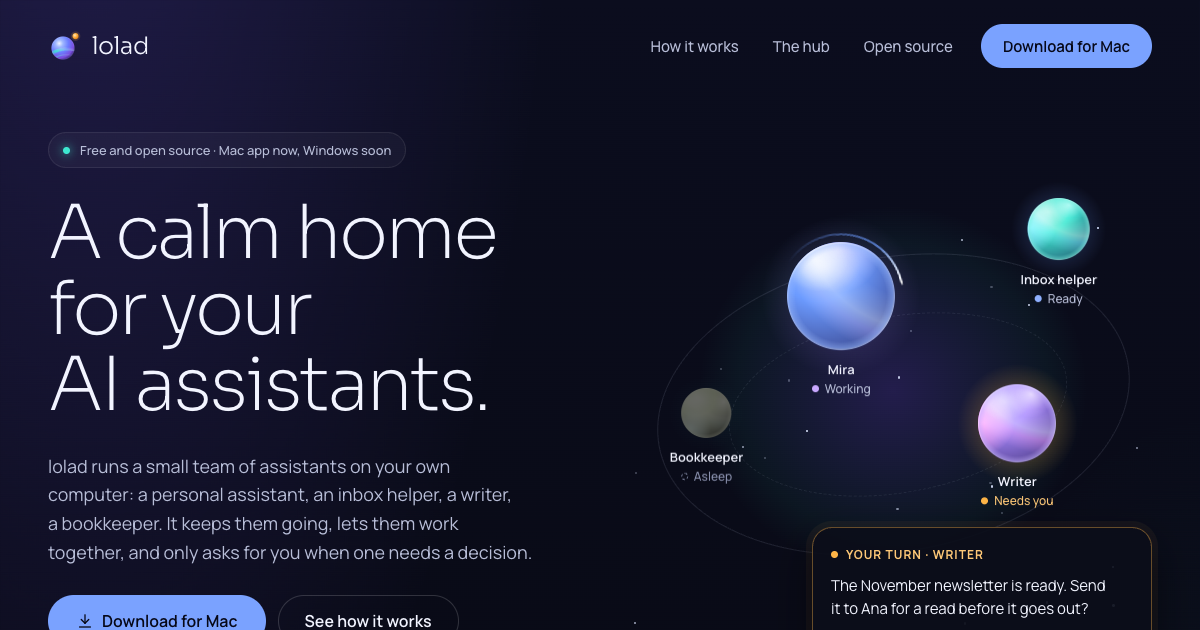
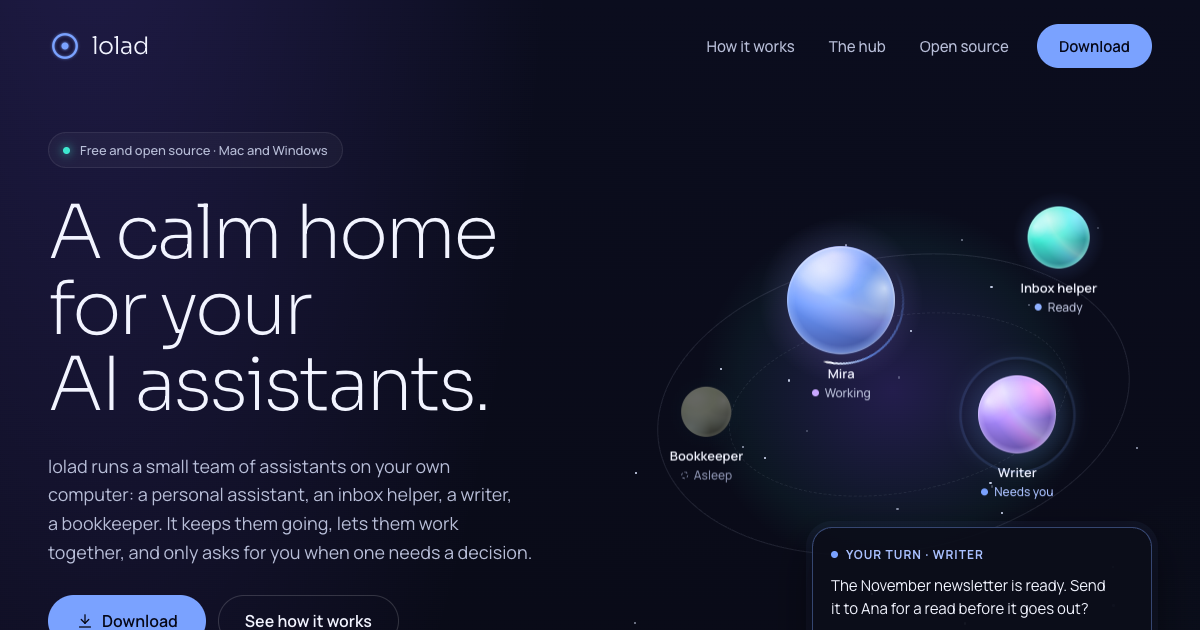
web+site: 'Runs on' in plain words, Restart sign-in link, site periwinkle 'your turn' and new og.png

diff --git a/site/styles.css b/site/styles.css
@@ -6,7 +6,7 @@
 :root {
   color-scheme: dark;
   --ion: #6C9BFF; --lilac: #A98BFF; --plasma: #FF6BD6; --aqua: #3DE8D0;
-  --volt: #C4F25A; --frost: #DCE6FF; --you: #FFB547; --fail: #FF5C7A;
+  --volt: #C4F25A; --frost: #DCE6FF; --you: #7AA2FF; --fail: #FF5C7A;
   --ink: #F2F4FF; --ink-2: #B8BED8; --ink-3: #8A91AE;
   --line: rgba(255,255,255,0.08);
   --surface: rgba(255,255,255,0.035);
@@ -102,11 +102,11 @@ a.btn.ghost:hover { color: var(--ink); background: rgba(255,255,255,0.06); }
 .turn-card {
   position: absolute; left: 30%; right: 0; bottom: -7%; max-width: 340px; margin-left: auto;
   padding: 18px; border-radius: 20px; background: rgba(11,13,25,0.92);
-  border: 1px solid rgba(255,181,71,0.38);
-  box-shadow: 0 16px 40px rgba(0,0,0,0.5), 0 0 0 6px rgba(255,181,71,0.05);
+  border: 1px solid rgba(122,162,255,0.38);
+  box-shadow: 0 16px 40px rgba(0,0,0,0.5), 0 0 0 6px rgba(122,162,255,0.05);
   display: flex; flex-direction: column; gap: 12px;
 }
-.turn-card .tag { display: inline-flex; align-items: center; gap: 8px; font-size: 12px; font-weight: 700; letter-spacing: 0.08em; text-transform: uppercase; color: #FFC877; }
+.turn-card .tag { display: inline-flex; align-items: center; gap: 8px; font-size: 12px; font-weight: 700; letter-spacing: 0.08em; text-transform: uppercase; color: #A9C0FF; }
 .turn-card p { font-size: 15px; line-height: 1.5; color: var(--ink); }
 .btn-row { display: flex; flex-wrap: wrap; gap: 8px; }
 
@@ -114,7 +114,7 @@ a.btn.ghost:hover { color: var(--ink); background: rgba(255,255,255,0.06); }
 .section { display: flex; flex-direction: column; gap: 40px; padding-block: 72px; }
 .cards { display: grid; grid-template-columns: repeat(auto-fit, minmax(min(100%, 300px), 1fr)); gap: 20px; }
 .card { background: var(--surface); border: 1px solid var(--line); border-radius: 22px; padding: 28px; display: flex; flex-direction: column; gap: 18px; min-width: 0; }
-.card.you  { border-color: rgba(255,181,71,0.38); background: linear-gradient(180deg, rgba(255,181,71,0.07), rgba(255,255,255,0.02)); }
+.card.you  { border-color: rgba(122,162,255,0.38); background: linear-gradient(180deg, rgba(122,162,255,0.07), rgba(255,255,255,0.02)); }
 .card.fail { border-color: rgba(255,92,122,0.30); background: linear-gradient(180deg, rgba(255,92,122,0.07), rgba(255,255,255,0.02)); }
 .card-head { display: flex; align-items: center; gap: 16px; }
 .status { display: inline-flex; align-items: center; gap: 8px; font-size: 13px; font-weight: 600; }
@@ -202,8 +202,8 @@ a.btn.ghost:hover { color: var(--ink); background: rgba(255,255,255,0.06); }
 .orb::after { content: ""; position: absolute; pointer-events: none; border-radius: 50%; }
 .orb.st-busy { --spd: 2.8; }
 .orb.st-busy::after { inset: -9%; background: conic-gradient(from 0deg, transparent 0 62%, color-mix(in srgb, var(--h) 70%, transparent) 88%, #fff 99%, transparent 100%); -webkit-mask: radial-gradient(closest-side, transparent calc(100% - 2.5px), #000 calc(100% - 2px)); mask: radial-gradient(closest-side, transparent calc(100% - 2.5px), #000 calc(100% - 2px)); animation: orb-spin 1.8s linear infinite; }
-.orb.st-waiting::before { background: radial-gradient(closest-side, color-mix(in srgb, var(--h) 36%, transparent) 0, rgba(255,181,71,.22) 55%, transparent 100%); }
-.orb.st-waiting::after { inset: -7%; border: 2px solid var(--you); box-shadow: 0 0 12px rgba(255,181,71,.55); animation: orb-ripple 2.4s cubic-bezier(.2,.6,.3,1) infinite; }
+.orb.st-waiting::before { background: radial-gradient(closest-side, color-mix(in srgb, var(--h) 36%, transparent) 0, rgba(122,162,255,.22) 55%, transparent 100%); }
+.orb.st-waiting::after { inset: -7%; border: 2px solid var(--you); box-shadow: 0 0 12px rgba(122,162,255,.55); animation: orb-ripple 2.4s cubic-bezier(.2,.6,.3,1) infinite; }
 .orb.st-stopped::before, .orb.st-failed::before { opacity: .1; animation: none; }
 .orb.st-stopped > .c, .orb.st-failed > .c { filter: saturate(.2) brightness(.42); }
 .orb.st-stopped > .c > i, .orb.st-failed > .c > i { animation-play-state: paused; }

diff --git a/site/index.html b/site/index.html
@@ -68,10 +68,10 @@
       <div class="agent agent-mira"><span class="orb h0 st-busy" style="width:108px;height:108px"><span class="c"><i></i><i></i><i></i></span></span><span class="agent-label"><b>Mira</b><span><span class="dot" style="background:#C9A8FF"></span>Working</span></span></div>
       <div class="agent agent-inbox"><span class="orb h3" style="width:62px;height:62px"><span class="c"><i></i><i></i><i></i></span></span><span class="agent-label"><b>Inbox helper</b><span><span class="dot" style="background:#8FB0FF"></span>Ready</span></span></div>
       <div class="agent agent-books"><span class="orb h4 st-stopped" style="width:50px;height:50px"><span class="c"><i></i><i></i><i></i></span></span><span class="agent-label"><b>Bookkeeper</b><span style="color:var(--ink-3)"><span class="dot" style="outline:1.5px dashed #8A91AE;outline-offset:-1.5px"></span>Asleep</span></span></div>
-      <div class="agent agent-writer"><span class="orb h1 st-waiting" style="width:78px;height:78px"><span class="c"><i></i><i></i><i></i></span></span><span class="agent-label"><b>Writer</b><span style="color:#FFC877"><span class="dot" style="background:#FFB547"></span>Needs you</span></span></div>
+      <div class="agent agent-writer"><span class="orb h1 st-waiting" style="width:78px;height:78px"><span class="c"><i></i><i></i><i></i></span></span><span class="agent-label"><b>Writer</b><span style="color:#A9C0FF"><span class="dot" style="background:#7AA2FF"></span>Needs you</span></span></div>
     </div>
     <div class="turn-card">
-      <span class="tag"><span class="dot" style="background:#FFB547"></span>Your turn · Writer</span>
+      <span class="tag"><span class="dot" style="background:#7AA2FF"></span>Your turn · Writer</span>
       <p>The November newsletter is ready. Send it to Ana for a read before it goes out?</p>
       <div class="btn-row"><span class="btn sm fake">Send to Ana</span><span class="btn ghost sm fake">Not yet</span></div>
     </div>
@@ -82,11 +82,11 @@
   <div class="intro">
     <span class="eyebrow">What needs you comes first</span>
     <h2 id="needs-title" class="h2">They only call you when it matters.</h2>
-    <p class="lede">Each assistant is a small orb of light in its own colour. It moves while it works and rests while it sleeps. Two colours are saved for you: amber means it's your turn, and rose means something broke.</p>
+    <p class="lede">Each assistant is a small orb of light in its own colour. It moves while it works and rests while it sleeps. Two colours are saved for you: a bright periwinkle ring means it's your turn, and rose means something broke.</p>
   </div>
   <div class="cards">
     <article class="card you">
-      <div class="card-head"><span class="orb h3 st-waiting" style="width:48px;height:48px" aria-hidden="true"><span class="c"><i></i><i></i><i></i></span></span><span class="status" style="color:#FFC877"><span class="dot" style="background:#FFB547"></span>Your turn</span></div>
+      <div class="card-head"><span class="orb h3 st-waiting" style="width:48px;height:48px" aria-hidden="true"><span class="c"><i></i><i></i><i></i></span></span><span class="status" style="color:#A9C0FF"><span class="dot" style="background:#7AA2FF"></span>Your turn</span></div>
       <h3>Inbox helper has a question</h3>
       <p>Archive the 214 newsletters you haven’t opened since March?</p>
       <div class="btn-row"><span class="btn sm fake">Archive them</span><span class="btn ghost sm fake">Keep them</span></div>

diff --git a/internal/web/templates/pages/welcome.html b/internal/web/templates/pages/welcome.html
@@ -75,7 +75,8 @@
 <h1 class="welcome-title" id="welcome-title">First, a brain for your assistants.</h1>
 <p class="welcome-lede">Your assistants think with Claude, on this computer. Connect your Claude account: <strong>Install</strong> and <strong>Sign in</strong> open Claude’s own screen below, so you can see exactly what happens. You need Claude Pro or Max.</p>
 {{template "welcome-harnesses-list" .}}
-{{with .Terminal}}{{template "welcome-terminal" .}}{{end}}
+{{with .Terminal}}{{template "welcome-terminal" .}}
+{{if hasPrefix .Action "login-"}}<form method="post" action="/welcome/terminal" class="welcome-term-links"><input type="hidden" name="action" value="{{.Action}}"><button class="btn btn-ghost btn-sm" type="submit">{{template "icon" "restart"}}<span>Restart sign-in</span></button></form>{{end}}{{end}}
 <div class="welcome-foot">
   {{template "welcome-next" (dict "Ready" .AnyReady "Folder" .Folder)}}
   <form method="post" action="/welcome/harnesses/rescan" class="welcome-rescan">

diff --git a/internal/web/templates/partials/agents.html b/internal/web/templates/partials/agents.html
@@ -74,7 +74,7 @@ sleep, Restart and Settings are buttons beside it (agent-head). */}}
 {{define "agent-about"}}{{$rt := .A.Runtime}}<section class="panel agent-about" aria-labelledby="h-about">
  <h2 id="h-about" class="eyebrow">At a glance</h2>
  <dl class="glance">
-  <div><dt>Runs on</dt><dd>{{harness $rt}}</dd></div>
+  <div><dt>Runs on</dt><dd>{{runsOn $rt}}</dd></div>
   <div><dt>Before acting</dt><dd>{{if eq $rt.Permissions "default"}}Asks you first{{else}}Works on its own{{end}}</dd></div>
   <div><dt>Wakes on a message</dt><dd>{{if $rt.WakeOnMessageEnabled}}On{{else}}Off{{end}}</dd></div>
   <div><dt>Fresh start</dt><dd>{{with $rt.Rotate}}Every day at {{.}}{{else}}Never{{end}}</dd></div>

diff --git a/internal/web/static/pages/welcome.css b/internal/web/static/pages/welcome.css
@@ -186,3 +186,4 @@
 .welcome-card .friend-consequence { margin: 14px 0 0; font-size: var(--t-sm); color: var(--ink-2); padding: 10px 14px; border-left: 2px solid var(--line-2); }
 .welcome-card .friend-consequence span { color: var(--ink); font-weight: 600; }
 .welcome-thing [data-notify-state]:empty { display: none; }
+.welcome-term-links { margin: -8px 0 0; }

diff --git a/internal/web/agents_v3_test.go b/internal/web/agents_v3_test.go
@@ -66,7 +66,7 @@ func TestAgentsFilteredControlResumesAndFreshWakes(t *testing.T) {
 func TestAgentDetailJobsAndConsequences(t *testing.T) {
 	e := setup(t)
 	_, body := e.do("GET", "/agents/lola", nil, false)
-	for _, want := range []string{"Talk to Lola", "Put to sleep", "At a glance", "Healthy", "Recent activity", "Wrote to you", "Got a message from Forge", "Automation ran", "Configuration", "Skills mode", "/settings/skills", "/settings/email", "/settings/files", "Read-only", "A quick restart", "Start fresh", "A new message wakes it up again", "Next check-in", "See what Lola sees"} {
+	for _, want := range []string{"Talk to Lola", "Put to sleep", "At a glance", "Healthy", "<dt>Runs on</dt><dd>", "Recent activity", "Wrote to you", "Got a message from Forge", "Automation ran", "Configuration", "Skills mode", "/settings/skills", "/settings/email", "/settings/files", "Read-only", "A quick restart", "Start fresh", "A new message wakes it up again", "Next check-in", "See what Lola sees"} {
 		if !strings.Contains(body, want) {
 			t.Errorf("missing %q", want)
 		}

diff --git a/internal/web/agents.go b/internal/web/agents.go
@@ -458,6 +458,25 @@ func (s *server) terminal(w http.ResponseWriter, r *http.Request) {
 }
 
 // harnessLabel is for the config summary.
+// runsOn is "Runs on" in plain words (Assistant board): "Claude · Opus",
+// "Codex". Unknown harnesses and models show as they are.
+func runsOn(rt core.Runtime) string {
+	h := map[core.Harness]string{core.HarnessClaude: "Claude", "codex": "Codex", core.HarnessCodewhale: "Codewhale"}[rt.Harness]
+	if h == "" {
+		h = cmp.Or(string(rt.Harness), "Claude")
+	}
+	m := strings.ToLower(rt.Model)
+	if m == "" {
+		return h
+	}
+	for _, f := range []string{"opus", "sonnet", "haiku", "fable"} {
+		if strings.Contains(m, f) {
+			return h + " · " + strings.ToUpper(f[:1]) + f[1:]
+		}
+	}
+	return h + " · " + rt.Model
+}
+
 func harnessLabel(rt core.Runtime) string {
 	if rt.Model == "" {
 		return fmt.Sprintf("%s · default model", rt.Harness)

diff --git a/internal/web/welcome_test.go b/internal/web/welcome_test.go
@@ -148,6 +148,10 @@ func TestWelcomeWalkThrough(t *testing.T) {
 			t.Errorf("terminal panel lacks %q", want)
 		}
 	}
+	_, body, _ = w.get("/welcome?step=harnesses&terminal=setup-login-claude")
+	if !strings.Contains(body, "Restart sign-in") || !strings.Contains(body, `name="action" value="login-claude"`) {
+		t.Error("a sign-in terminal offers Restart sign-in")
+	}
 	if code, _, _ = w.post("/welcome/terminal", url.Values{"action": {"rm-rf"}}); code != http.StatusUnprocessableEntity {
 		t.Errorf("bad action: %d", code)
 	}

diff --git a/internal/web/views.go b/internal/web/views.go
@@ -71,6 +71,7 @@ func funcs(s *server) template.FuncMap {
 		"subject":        subject,
 		"json":           func(v any) (string, error) { b, err := json.Marshal(v); return string(b), err },
 		"harness":        harnessLabel,
+		"runsOn":         runsOn,
 		"list":           func(v ...string) []string { return v },
 		"hasPrefix":      strings.HasPrefix,
 		"indent":         func(depth int) string { return strings.Repeat("\u00a0\u00a0\u00a0", max(depth-1, 0)) },

diff --git a/internal/web/REDESIGN.md b/internal/web/REDESIGN.md
@@ -61,4 +61,4 @@ package and what is done.
 - Activity's "Group by conversation" and per-message plain-word reasons
   ("Different team, so it has to go through Lola").
 - Assistant colour picker, on Ob-Shape and in settings (needs a colour field in `lolabot.yaml`).
-- Logo: the v2 ring is in `static/logo.svg` (and `site/`); `desktop/assets/icons/gen.go` still draws the old orb until lolad-desktop redraws it. `site/og.png` still shows the old mark.
+- Logo: the v2 ring is in `static/logo.svg` (and `site/`); `desktop/assets/icons/gen.go` still draws the old orb until lolad-desktop redraws it.
